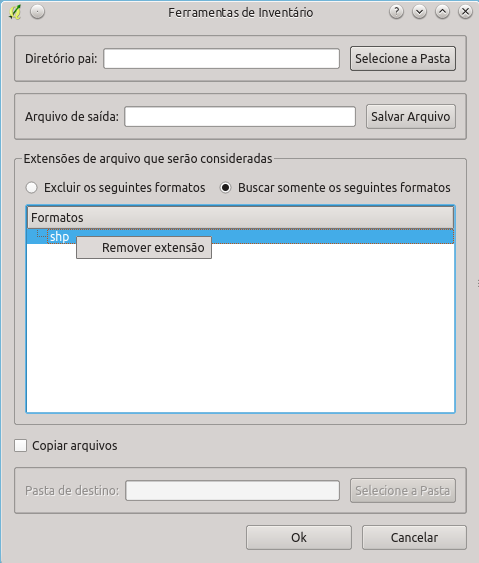
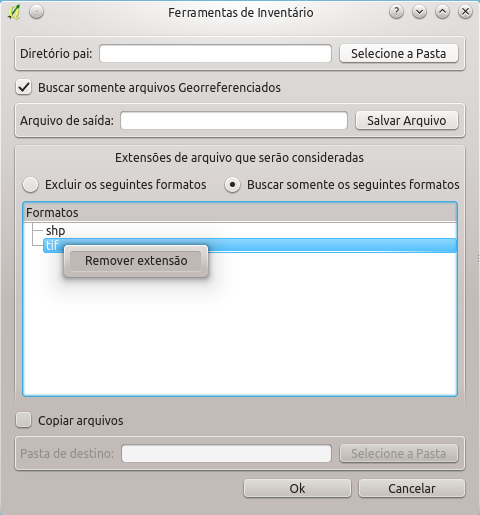
Inventory help updated.

diff --git a/help/inventario.html b/help/inventario.html
@@ -19,9 +19,16 @@
     
 	<p align="justify">
         O plugin DSG Tools permite que seja feito um inventário de todas os dados geoespaciais que sejam suportados pelo GDAL/OGR. 
-        Essa ferramenta cria um arquivo CSV, com o caminho completo de todos os arquivos inventariados, que é carregado no QGIS após processamento. 
+        Essa ferramenta permite que o usuário escolha entre criar um arquivo CSV ou um arquivo SHP, com o caminho completo de todos os arquivos inventariados, 
+        o tamanho do arquivo, data do arquivo e extensão do mesmo. O arquivo gerado é carregado no QGIS após processamento de maneira automática. 
+    </p>
+	<p align="justify">
         Após o carragamento do arquivo de inventário é possível que seja feita o carregamento individual dos arquivos inventariados no QGIS atráves de 
-        duas ações de atributos do QGIS, Load vector Layer e Load Raster Layer. A seguir será mostrado em detalhes como usar estas ferramentas. 
+        duas ações de atributos do QGIS, Load vector Layer e Load Raster Layer. 
+    </p>
+	<p align="justify">
+        Caso a opção <kbd>Buscar somente arquivos georreferenciados</kbd> esteja marcada, além dos dados citados acima, é fornecido o bounding box 
+        dos arquivos inventariados no SHP gerado e carregado no QGIS.
     </p>
 
     <p align=center>

diff --git a/CustomWidgets/connectionWidget.py b/CustomWidgets/connectionWidget.py
@@ -88,7 +88,8 @@ class ConnectionWidget(QtGui.QWidget, FORM_CLASS):
     @pyqtSlot(bool)
     def on_pushButtonOpenFile_clicked(self):  
         self.loadDatabase()
-        self.connectionChanged.emit()
+        if self.isDBConnected():
+            self.connectionChanged.emit()
         
     @pyqtSlot(int)
     def on_tabWidget_currentChanged(self):

diff --git a/DbTools/PostGISTool/postgisDBTool.py b/DbTools/PostGISTool/postgisDBTool.py
@@ -109,6 +109,7 @@ class PostgisDBTool(QDialog, Ui_Dialog):
         db.setPort(int(port))
         db.setUserName(user)
         db.setPassword(password)
+        db.setConnectOptions('connect_timeout=10')
         if not db.open():
             QgsMessageLog.logMessage(db.lastError().text(), "DSG Tools Plugin", QgsMessageLog.CRITICAL)
 
